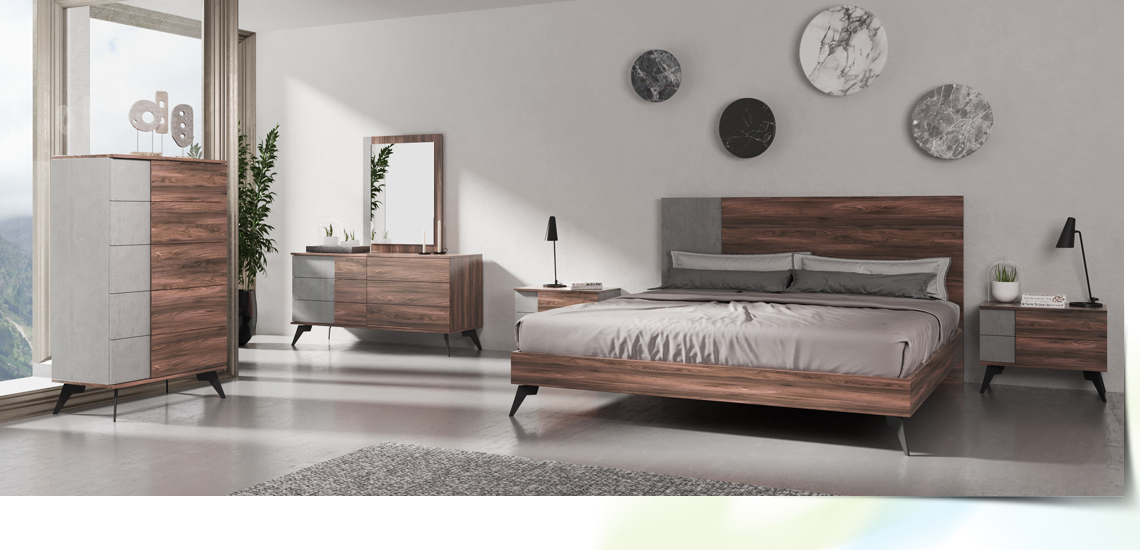
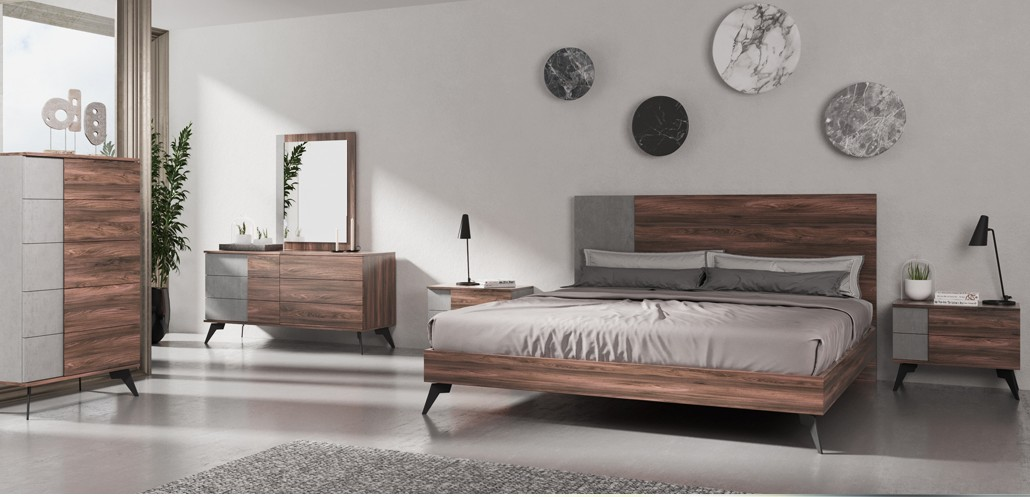
fix home image

diff --git a/README.md b/README.md
@@ -3,4 +3,4 @@ Just a practice project to practice my css. I tried to avoid using libraies like
 
 
 ## Screen Shots
-![homepage](/screenshots/homepage.png)
+![homepage](/screenshots/home-page.png)
